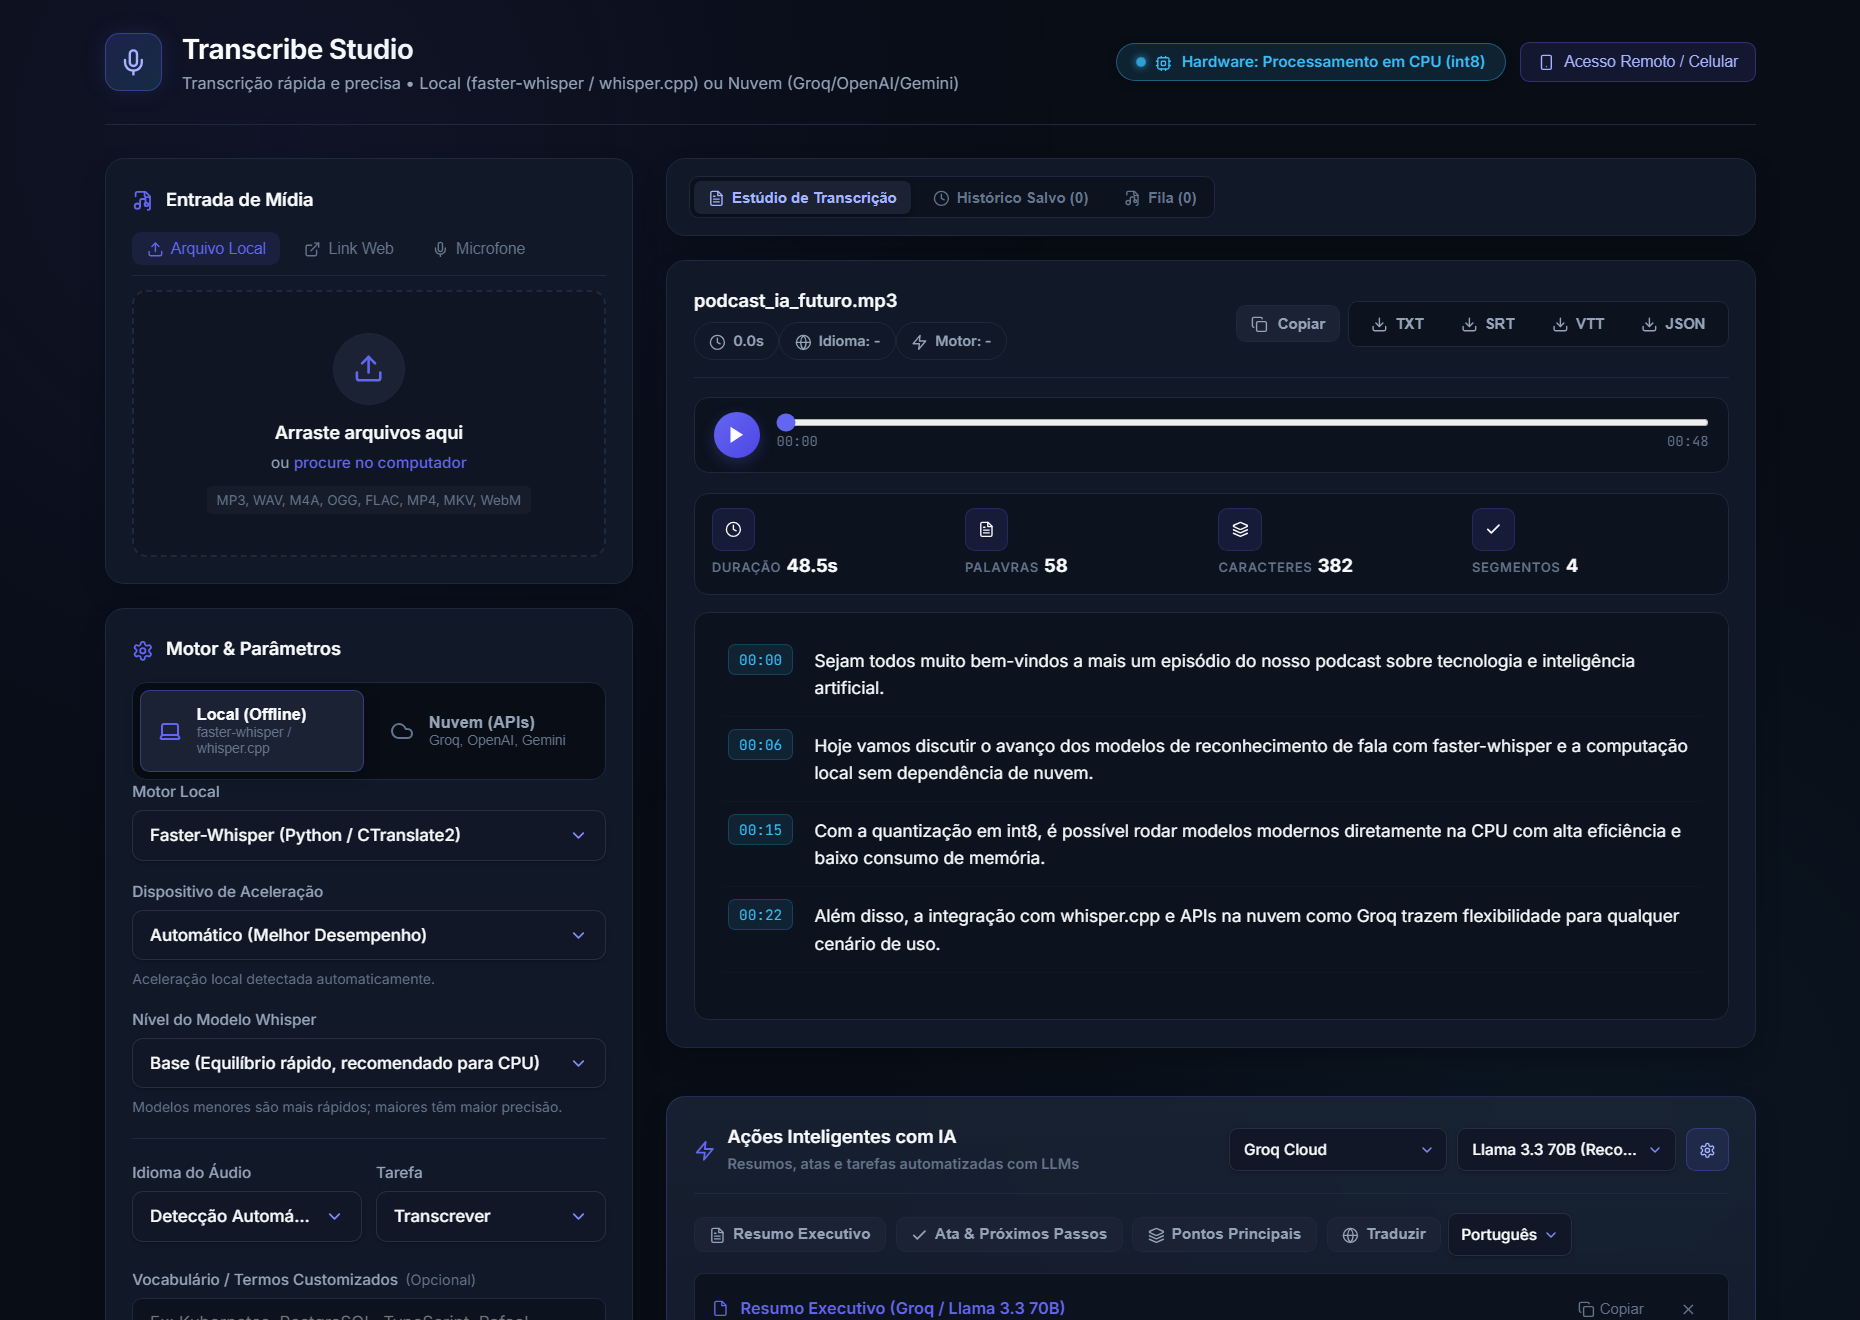
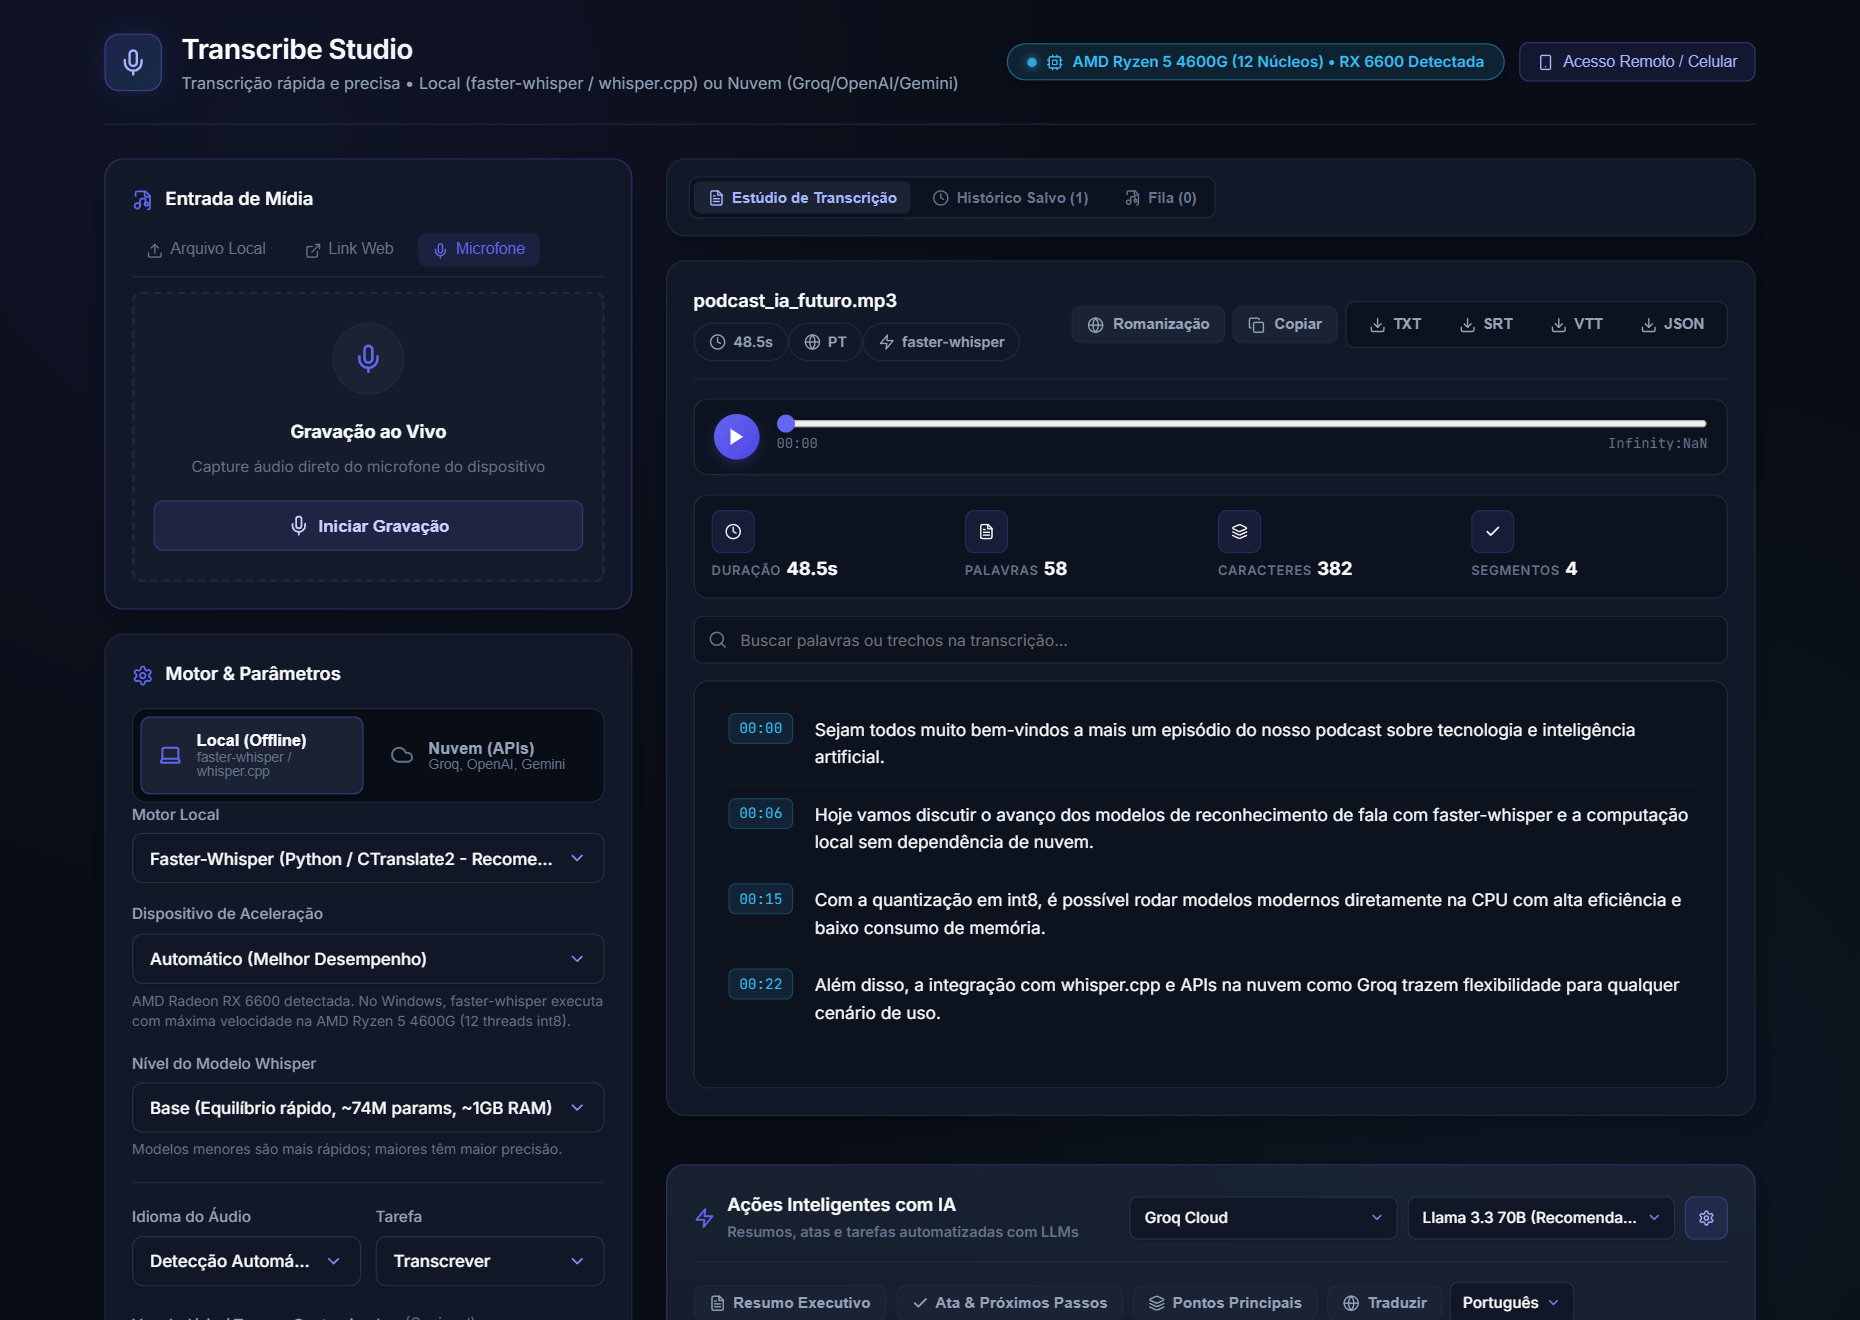
fix: init() rodava antes das consts (TDZ) quebrando modais; prints reais via Playwright

diff --git a/app/static/js/app.js b/app/static/js/app.js
@@ -361,8 +361,7 @@ document.addEventListener("DOMContentLoaded", () => {
         }
     }
 
-    // Inicialização
-    init();
+    // Inicialização (init() é chamado no final do escopo, após todas as declarações const)
 
     async function init() {
         if (window.AppIcons) window.AppIcons.renderAll();
@@ -2716,4 +2715,6 @@ document.addEventListener("DOMContentLoaded", () => {
         div.textContent = text;
         return div.innerHTML;
     }
+
+    init();
 });

diff --git a/scripts/take_real_screenshots.py b/scripts/take_real_screenshots.py
@@ -1,0 +1,77 @@
+"""Gera prints reais do app clicando em cada aba/modal com um navegador de verdade (Playwright + Edge)."""
+import subprocess
+import sys
+import time
+from pathlib import Path
+
+from playwright.sync_api import sync_playwright
+
+BASE = Path(__file__).resolve().parent.parent
+OUT = BASE / "docs" / "screenshots" / "linkedin"
+URL = "http://127.0.0.1:8008/?demo=1"
+
+
+def main():
+    OUT.mkdir(parents=True, exist_ok=True)
+    srv = subprocess.Popen(
+        [sys.executable, "-m", "uvicorn", "app.main:app", "--host", "127.0.0.1", "--port", "8008"],
+        cwd=str(BASE), stdout=subprocess.DEVNULL, stderr=subprocess.DEVNULL,
+    )
+    time.sleep(3)
+    try:
+        with sync_playwright() as p:
+            browser = p.chromium.launch(channel="msedge")
+            page = browser.new_page(viewport={"width": 1550, "height": 1100}, device_scale_factor=1.2)
+            page.on("pageerror", lambda e: print("JS ERROR:", e))
+
+            def fresh():
+                page.goto(URL)
+                page.wait_for_selector("#tab-local")
+                page.wait_for_timeout(1200)
+
+            def shot(name):
+                page.wait_for_timeout(600)
+                page.screenshot(path=str(OUT / name))
+                print(" ->", name)
+
+            def close_modals():
+                page.keyboard.press("Escape")
+                page.wait_for_timeout(300)
+
+            fresh()
+            page.click("#tab-local"); shot("1_motores_local.png")
+            page.click("#tab-cloud"); shot("1b_motores_nuvem.png")
+
+            page.click("#btn-open-custom-providers-llm")
+            page.click("#tab-modal-custom"); shot("1c_gerenciador_conexoes.png")
+            page.click("#tab-modal-cloud")
+            page.fill("#modal-key-groq", "gsk_live_94F2k9x" + "•" * 20)
+            page.fill("#modal-key-openai", "sk-proj-7a8K9x" + "•" * 20)
+            page.fill("#modal-key-gemini", "AIzaSyD-" + "•" * 24)
+            shot("1c_chaves_api_nuvem.png"); close_modals()
+
+            page.click("#tab-local")
+            page.click("#hardware-badge"); shot("1d_diagnostico_hardware.png"); close_modals()
+
+            page.click("#tab-dropzone-url")
+            page.fill("#web-url-input", "https://www.youtube.com/watch?v=dQw4w9WgXcQ")
+            shot("2_transcricao_por_url.png")
+            page.click("#tab-dropzone-mic"); shot("2b_gravacao_microfone.png")
+
+            shot("3_player_e_minutagem.png")
+            page.locator("#llm-actions-card").scroll_into_view_if_needed()
+            shot("4_acoes_ia_resumo.png")
+            page.evaluate("window.scrollTo(0,0)")
+
+            page.click("#remote-btn"); page.wait_for_timeout(800)
+            page.click("#tab-remote-lan"); shot("5_acesso_remoto_qrcode.png"); close_modals()
+
+            shot("6_visao_geral.png")
+            (OUT / "5_visao_geral.png").write_bytes((OUT / "6_visao_geral.png").read_bytes())
+            browser.close()
+    finally:
+        srv.terminate()
+
+
+if __name__ == "__main__":
+    main()
